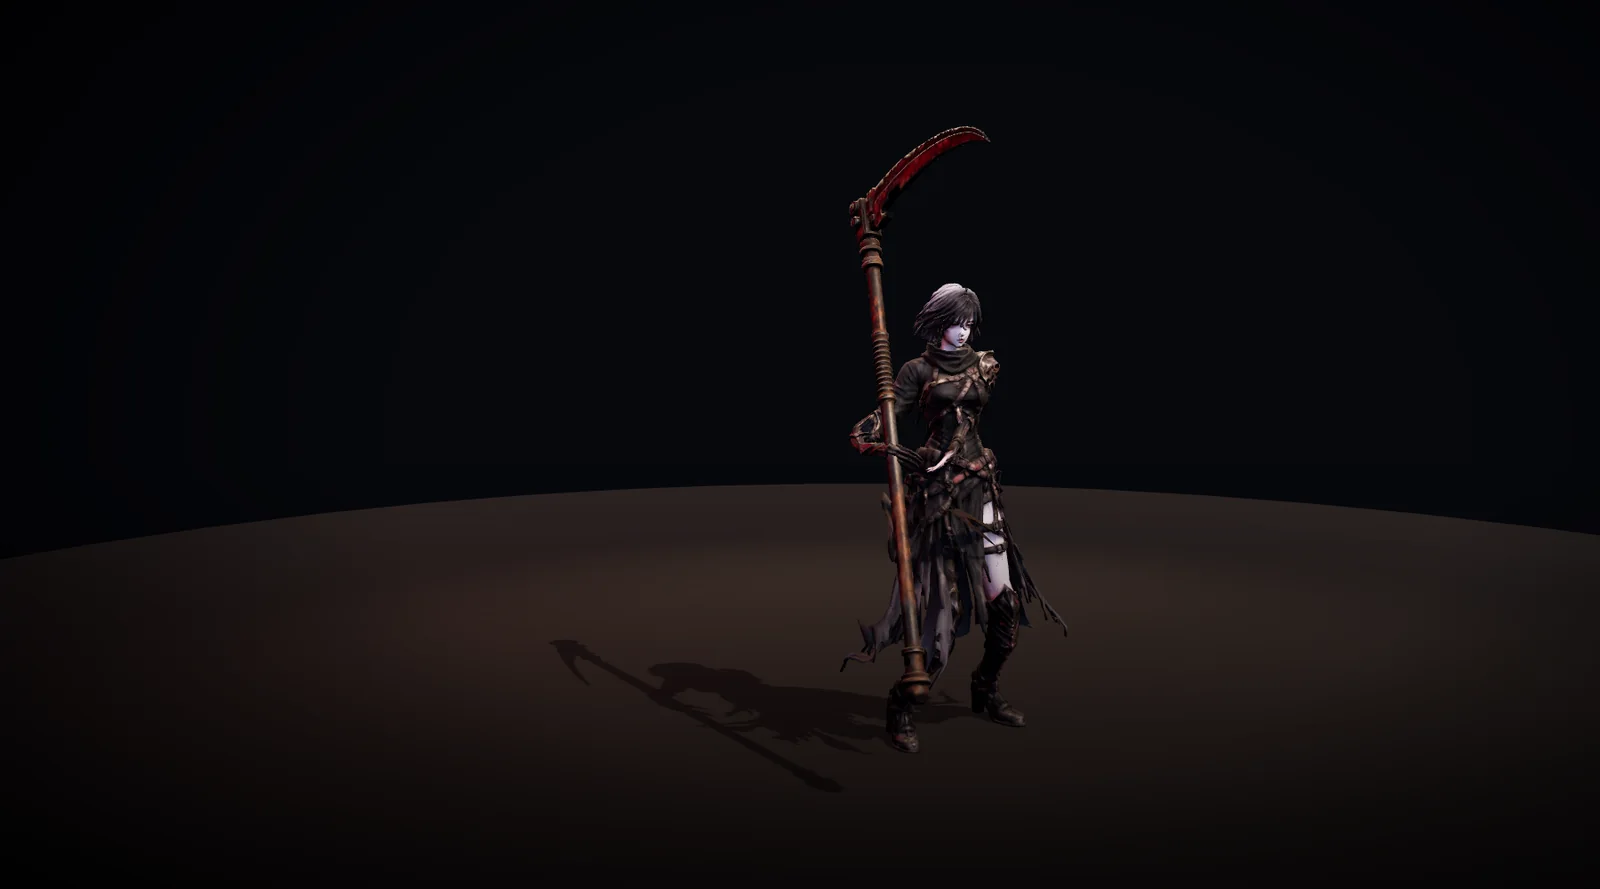
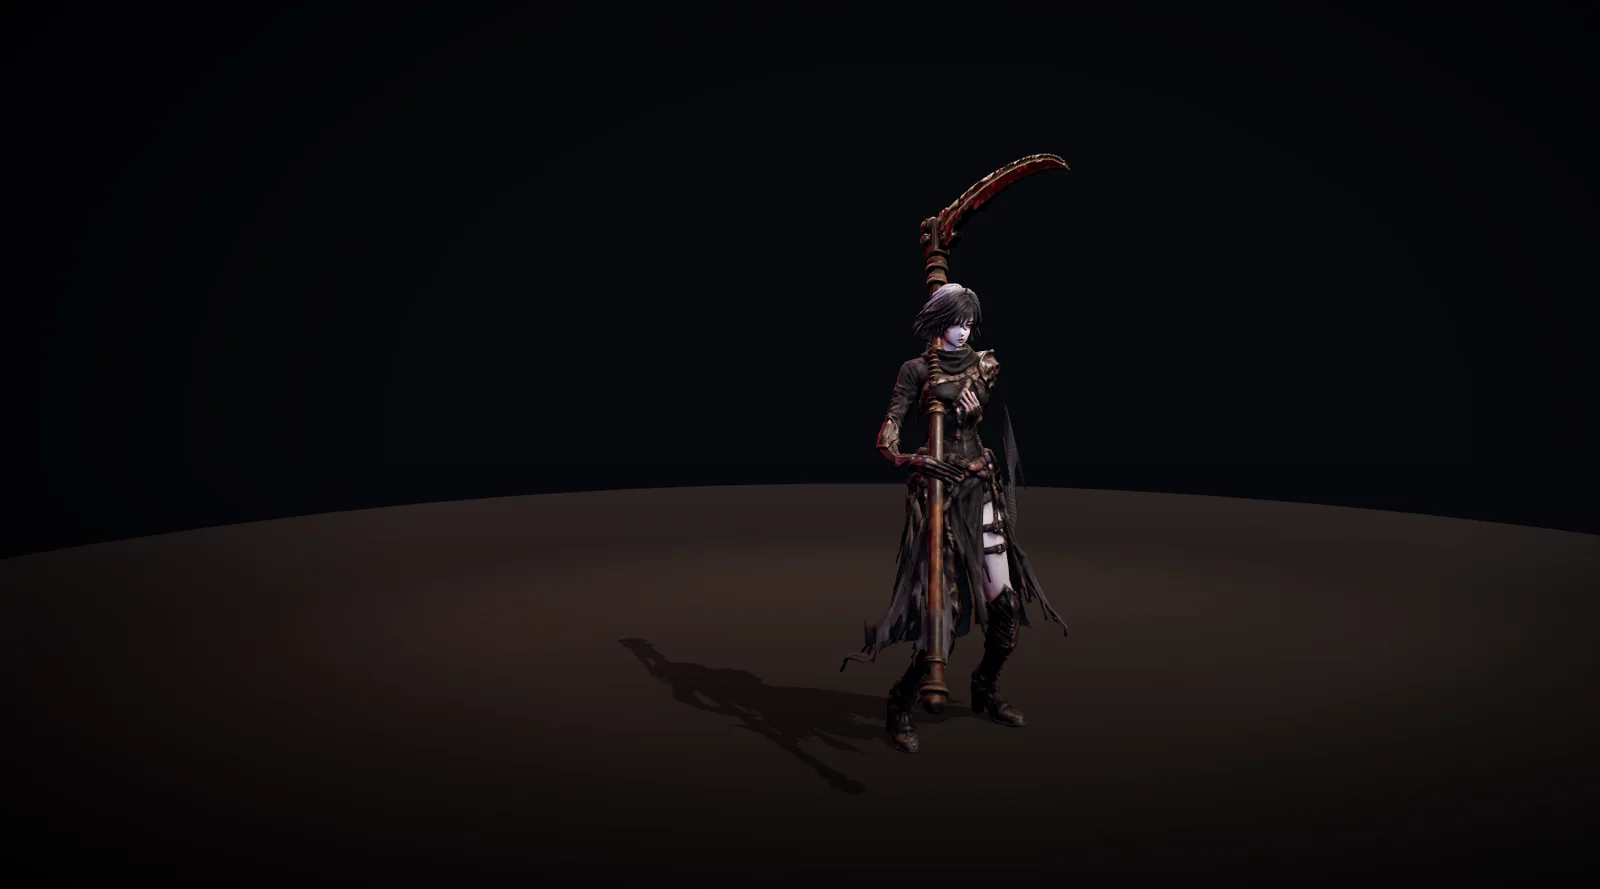
대기·걷기 자세 수정: 왼손이 몸을 가로질러 오른손과 겹치던 문제 → 오른손 허벅지 앞·왼손 가슴 앞에서 자루를 잡는 양손 파지, 키아트 재렌더
Claude-Session: https://claude.ai/code/session_01985j7Xg6ZxhQJgPwrCWkih

Changed region(s): [[0.5312, 0.1215, 0.6562, 0.7897]]

diff --git a/tools/3d/retarget_ain.py b/tools/3d/retarget_ain.py
@@ -143,9 +143,10 @@ def carry(world, spec):
     return err
 # 캐릭터 기준 (right, up, fwd) 오프셋 — Hips 원점(≈0.98 m)
 CARRY={
-  'idle': dict(rh=(0.27,0.10,0.24), shaft=(-0.18,0.94,-0.28), blade=(0,0.25,1), left=-0.36),
-  'idle2':dict(rh=(0.27,0.10,0.24), shaft=(-0.18,0.94,-0.28), blade=(0,0.25,1), left=-0.36),
-  'walk': dict(rh=(0.28,0.06,0.22), shaft=(-0.18,0.94,-0.28), blade=(0,0.25,1), left=-0.36),
+  # 대기: 오른손은 오른쪽 허벅지 앞, 자루 위쪽은 왼쪽으로 기울어 왼손이 가슴 앞에서 자루를 잡는다 (왼손이 몸을 가로질러 오른손과 겹치던 문제 수정)
+  'idle': dict(rh=(0.14,0.05,0.28), shaft=(-0.30,0.90,-0.25), blade=(0,0.25,1), left=0.32),
+  'idle2':dict(rh=(0.14,0.05,0.28), shaft=(-0.30,0.90,-0.25), blade=(0,0.25,1), left=0.32),
+  'walk': dict(rh=(0.16,0.02,0.26), shaft=(-0.30,0.90,-0.25), blade=(0,0.25,1), left=0.32),
   'run':  dict(rh=(0.30,-0.06,-0.08), shaft=(-0.12,0.42,-0.90), blade=(0,1,0.4), left=None),
   'guard':dict(rh=(0.22,0.28,0.36), shaft=(-0.97,0.25,0), blade=(0,0,1), left=0.40),
   'guardHit':dict(rh=(0.22,0.28,0.36), shaft=(-0.97,0.25,0), blade=(0,0,1), left=0.40),
